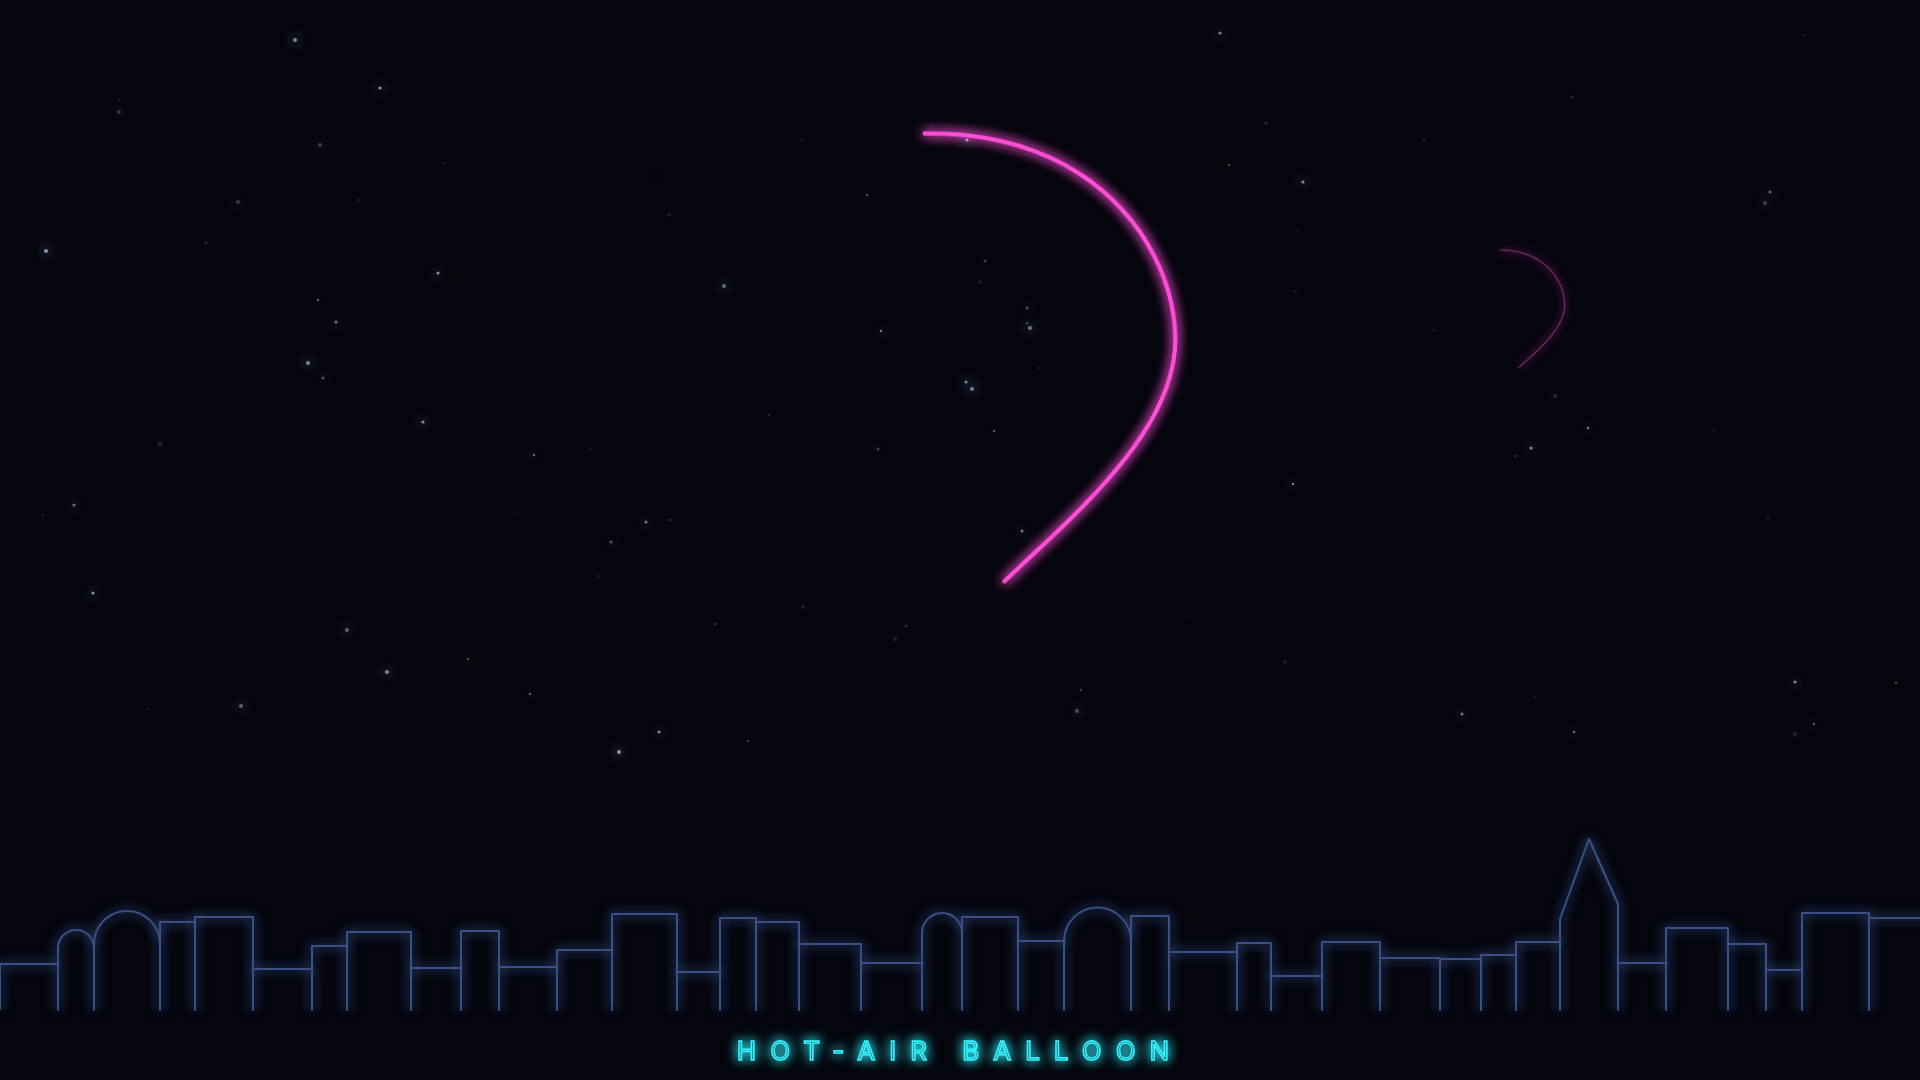
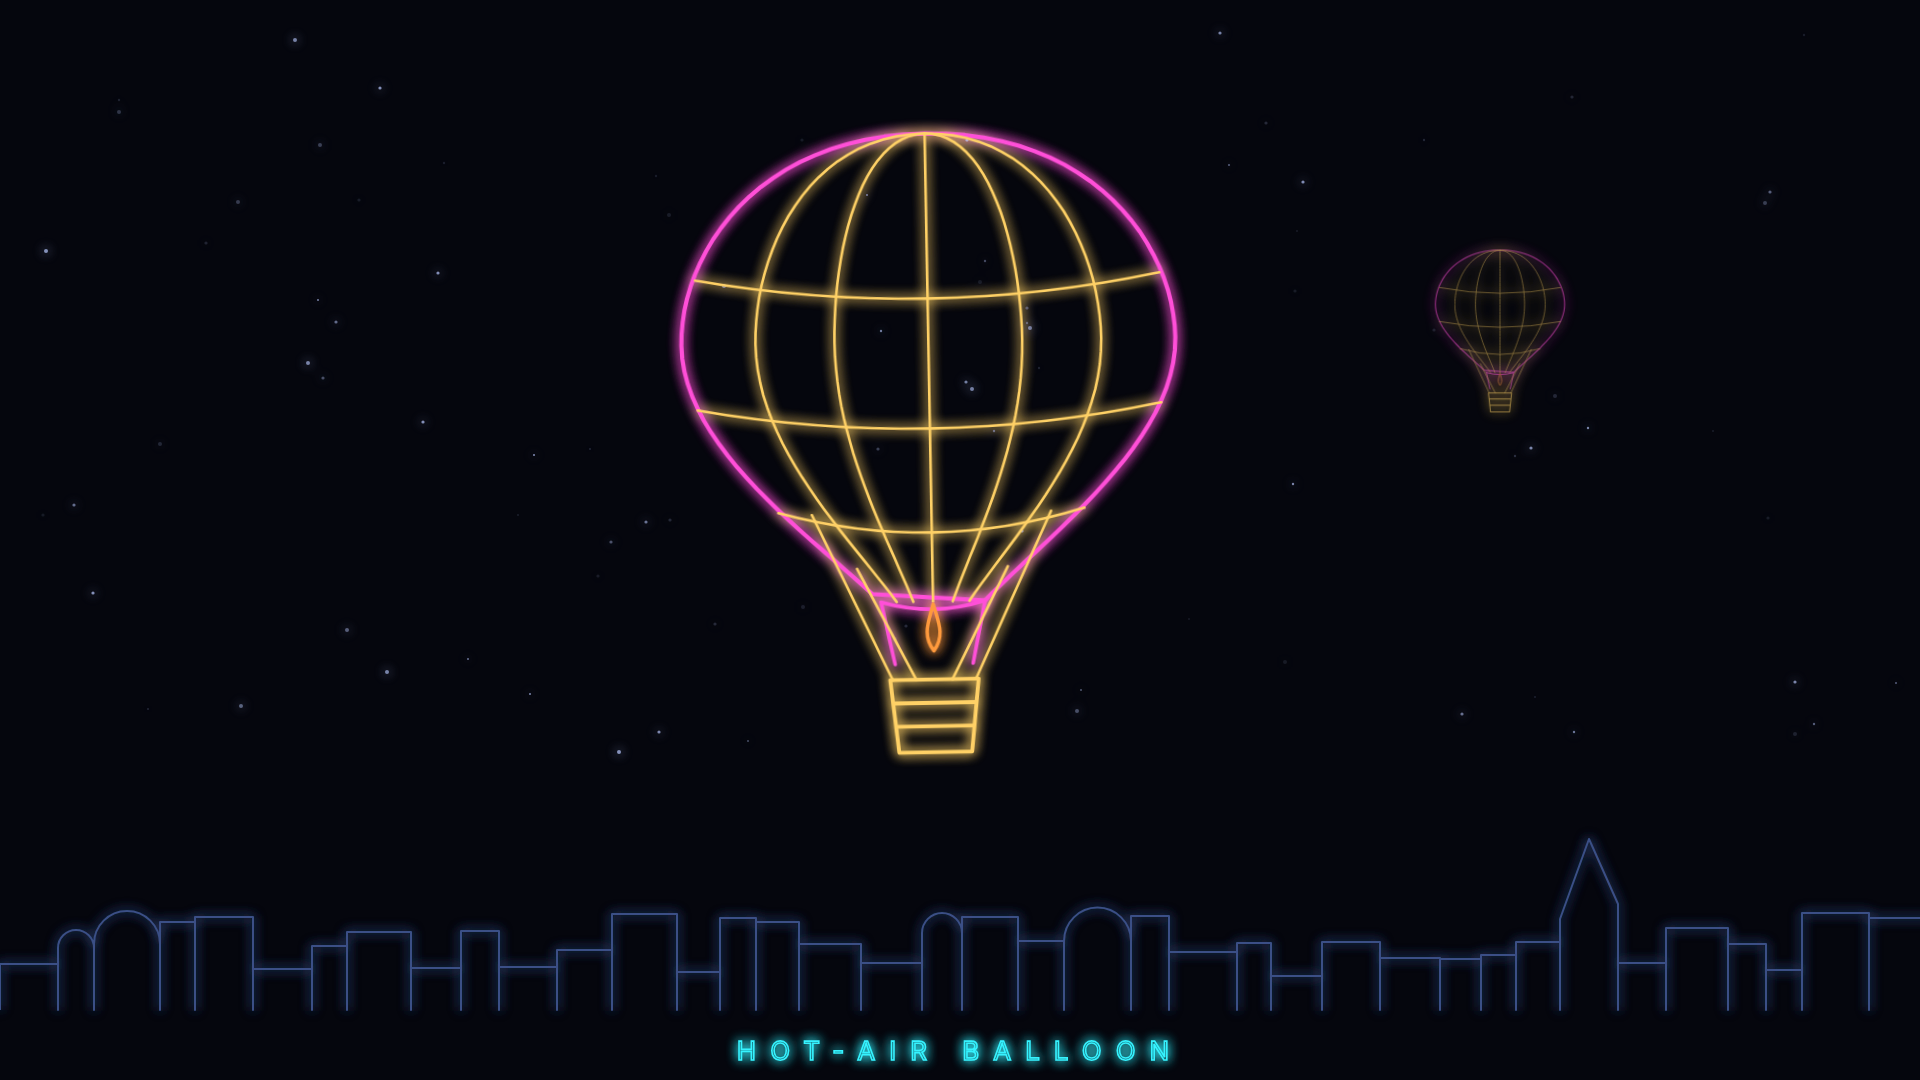
Balloon sample: draw inline instead of <use> so the seek renderer controls every animation
Claude-Session: https://claude.ai/code/session_01Hp16YZdU9XS2SQtoPYBVBB

Changed region(s): [[0.3438, 0.0917, 0.625, 0.7333], [0.75, 0.2139, 0.8125, 0.3972]]

diff --git a/tools/gen_balloon_shape.py b/tools/gen_balloon_shape.py
@@ -67,12 +67,11 @@ def build():
         k[0] += 1
         return s
     body = p(outline, 'pk', '3.2') + ''.join(p(m, 'gd', '2') for m in mer) + ''.join(p(b, 'gd', '2') for b in bands) + p(mouth, 'pk') + p(ropes, 'gd', '2') + p(basket, 'gd', '3')
-    small = body  # same drawing reused for the distant balloon via <use>
+    bal = body + f'<path class="flame" d="{flame}"/>'     # drawn inline twice: animations inside <use> shadow trees are not seekable
     return f'''<svg xmlns="http://www.w3.org/2000/svg" viewBox="0 0 1920 1080" width="1920" height="1080">
 <title>Hot-air balloon sample</title>
 <defs>
 <filter id="glow" filterUnits="userSpaceOnUse" x="0" y="0" width="1920" height="1080"><feGaussianBlur stdDeviation="6" result="b"/><feMerge><feMergeNode in="b"/><feMergeNode in="b"/><feMergeNode in="SourceGraphic"/></feMerge></filter>
-<g id="balloon">{body}<path class="flame" d="{flame}"/></g>
 <style>
 .d{{fill:none;stroke-linecap:round;stroke-linejoin:round;stroke-dasharray:1;stroke-dashoffset:1;opacity:0;animation:draw 1.4s cubic-bezier(.12,.7,.3,1) both}}
 @keyframes draw{{0%{{stroke-dashoffset:1;opacity:0}}1%{{opacity:1}}100%{{stroke-dashoffset:0;opacity:1}}}}
@@ -91,8 +90,8 @@ def build():
 <g filter="url(#glow)">
 <g>{stars}</g>
 <path class="sky" d="{skyline()}"/>
-<g transform="translate(1500 330) scale(.34)"><g class="far"><use href="#balloon"/></g></g>
-<g transform="translate(930 470) scale(1.3)"><g class="main"><g class="bob"><use href="#balloon"/></g></g></g>
+<g transform="translate(1500 330) scale(.34)"><g class="far">{bal}</g></g>
+<g transform="translate(930 470) scale(1.3)"><g class="main"><g class="bob">{bal}</g></g></g>
 <text class="t" x="960" y="1060" font-size="26" letter-spacing="14" {FONT}>HOT-AIR BALLOON</text>
 </g>
 </svg>
